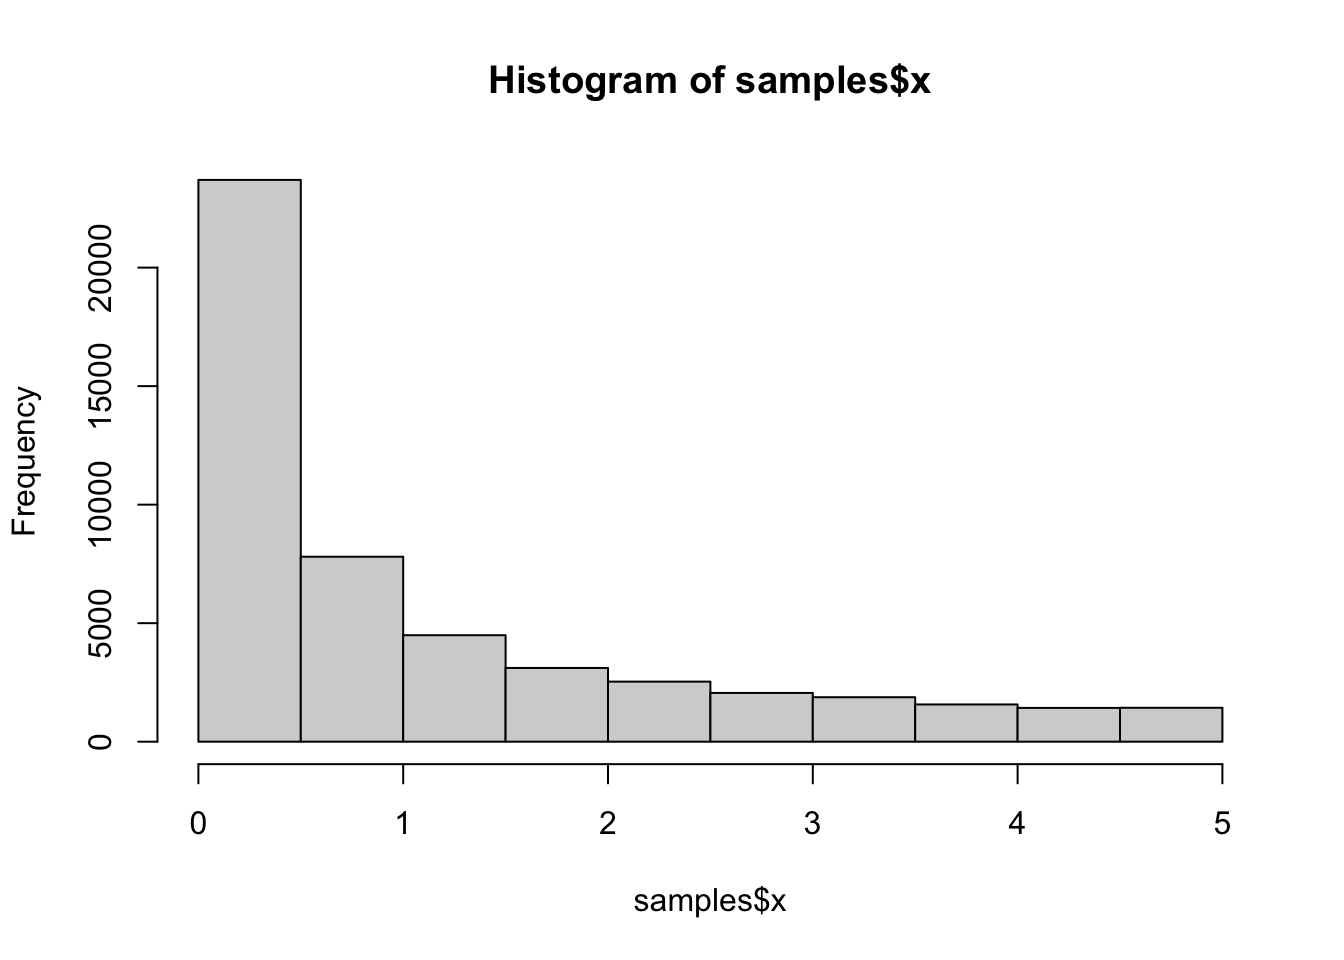
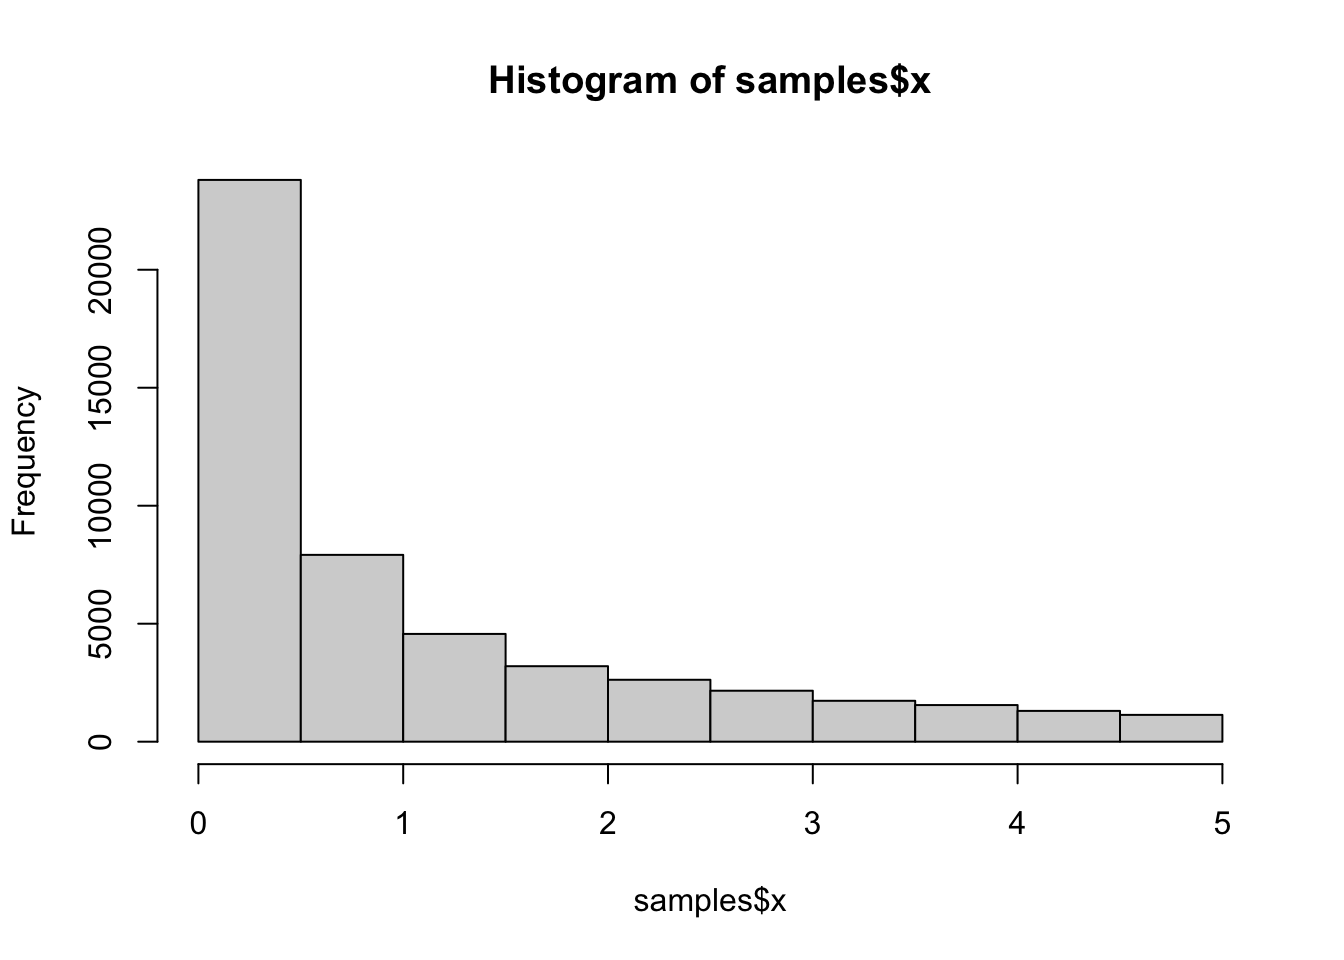
Built site for gh-pages

diff --git a/w08_mcmc1/topic02_stan_basics.html b/w08_mcmc1/topic02_stan_basics.html
@@ -796,7 +796,7 @@ https://github.com/trevorcampbell/shortex
 <span id="annotated-cell-3-3"><a href="#annotated-cell-3-3" aria-hidden="true" tabindex="-1"></a>}</span>
 <span id="annotated-cell-3-4"><a href="#annotated-cell-3-4" aria-hidden="true" tabindex="-1"></a></span>
 <a class="code-annotation-anchor" data-target-cell="annotated-cell-3" data-target-annotation="2" onclick="event.preventDefault();">2</a><span id="annotated-cell-3-5" class="code-annotation-target"><a href="#annotated-cell-3-5" aria-hidden="true" tabindex="-1"></a><span class="kw">parameters</span> {</span>
-<span id="annotated-cell-3-6"><a href="#annotated-cell-3-6" aria-hidden="true" tabindex="-1"></a>  <span class="dt">real</span> x;</span>
+<span id="annotated-cell-3-6"><a href="#annotated-cell-3-6" aria-hidden="true" tabindex="-1"></a>  <span class="dt">real</span>&lt;<span class="kw">lower</span>=<span class="dv">0</span>, <span class="kw">upper</span>=<span class="dv">5</span>&gt; x;</span>
 <span id="annotated-cell-3-7"><a href="#annotated-cell-3-7" aria-hidden="true" tabindex="-1"></a>}</span>
 <span id="annotated-cell-3-8"><a href="#annotated-cell-3-8" aria-hidden="true" tabindex="-1"></a></span>
 <span id="annotated-cell-3-9"><a href="#annotated-cell-3-9" aria-hidden="true" tabindex="-1"></a><span class="kw">model</span> {</span>
@@ -850,12 +850,9 @@ https://github.com/trevorcampbell/shortex
 <div class="cell-output cell-output-stdout">
 <pre><code>
 SAMPLING FOR MODEL 'anon_model' NOW (CHAIN 1).
-Chain 1: Rejecting initial value:
-Chain 1:   Error evaluating the log probability at the initial value.
-Chain 1: Exception: uniform_lpdf: Upper bound parameter is -1.58474, but must be greater than 0.000000 (in 'anon_model', line 9, column 2 to column 20)
 Chain 1: 
-Chain 1: Gradient evaluation took 3e-06 seconds
-Chain 1: 1000 transitions using 10 leapfrog steps per transition would take 0.03 seconds.
+Chain 1: Gradient evaluation took 4e-06 seconds
+Chain 1: 1000 transitions using 10 leapfrog steps per transition would take 0.04 seconds.
 Chain 1: Adjust your expectations accordingly!
 Chain 1: 
 Chain 1: 
@@ -872,9 +869,9 @@ Chain 1: Iteration: 80000 / 100000 [ 80%]  (Sampling)
 Chain 1: Iteration: 90000 / 100000 [ 90%]  (Sampling)
 Chain 1: Iteration: 100000 / 100000 [100%]  (Sampling)
 Chain 1: 
-Chain 1:  Elapsed Time: 10.363 seconds (Warm-up)
-Chain 1:                3.196 seconds (Sampling)
-Chain 1:                13.559 seconds (Total)
+Chain 1:  Elapsed Time: 0.253 seconds (Warm-up)
+Chain 1:                0.157 seconds (Sampling)
+Chain 1:                0.41 seconds (Total)
 Chain 1: </code></pre>
 </div>
 </div>
@@ -886,11 +883,11 @@ Chain 1: </code></pre>
 1 chains, each with iter=1e+05; warmup=50000; thin=1; 
 post-warmup draws per chain=50000, total post-warmup draws=50000.
 
-     mean se_mean   sd  2.5%   25%  50%  75% 97.5% n_eff Rhat
-x    1.15    0.03 1.30  0.07  0.18 0.56 1.72  4.56  1403    1
-lp__ 0.58    0.04 1.29 -1.52 -0.54 0.58 1.69  2.70  1092    1
+      mean se_mean   sd  2.5%   25%   50%   75% 97.5% n_eff Rhat
+x     1.12    0.01 1.25  0.07  0.19  0.55  1.68  4.45 10585    1
+lp__ -0.37    0.01 0.63 -2.21 -0.41 -0.12 -0.04 -0.01  9987    1
 
-Samples were drawn using NUTS(diag_e) at Mon Mar  4 21:07:38 2024.
+Samples were drawn using NUTS(diag_e) at Tue Mar  5 11:45:15 2024.
 For each parameter, n_eff is a crude measure of effective sample size,
 and Rhat is the potential scale reduction factor on split chains (at 
 convergence, Rhat=1).</code></pre>
@@ -924,7 +921,14 @@ convergence, Rhat=1).</code></pre>
 <span id="cb7-2"><a href="#cb7-2" aria-hidden="true" tabindex="-1"></a></span>
 <span id="cb7-3"><a href="#cb7-3" aria-hidden="true" tabindex="-1"></a><span class="fu">head</span>(samples<span class="sc">$</span>x)</span></code><button title="Copy to Clipboard" class="code-copy-button"><i class="bi"></i></button></pre></div>
 <div class="cell-output cell-output-stdout">
-<pre><code>[1] 1.1564924 2.1603994 0.1596580 0.1776573 4.1258671 1.0702292</code></pre>
+<pre><code>[1] 0.7224132 3.7228678 2.2768091 1.0077302 4.9788992 0.6378141</code></pre>
+</div>
+</div>
+<p>As a sanity check, let’s make sure all the samples are greater than the observed lower bound of <span class="math inline">\(0.06\)</span>:</p>
+<div class="cell">
+<div class="sourceCode cell-code" id="cb9"><pre class="sourceCode r code-with-copy"><code class="sourceCode r"><span id="cb9-1"><a href="#cb9-1" aria-hidden="true" tabindex="-1"></a><span class="fu">min</span>(samples<span class="sc">$</span>x)</span></code><button title="Copy to Clipboard" class="code-copy-button"><i class="bi"></i></button></pre></div>
+<div class="cell-output cell-output-stdout">
+<pre><code>[1] 0.06000474</code></pre>
 </div>
 </div>
 <p><strong>Question:</strong> denote the samples output from Stan by <span class="math inline">\(X^{(1)}, X^{(2)}, \dots, X^{(M)}\)</span>. What formula should you use to approximate <span class="math inline">\(\mathbb{E}[g(X) | Y = y]\)</span> based on the Stan output?</p>
@@ -970,26 +974,26 @@ Click for answer
 <h3 class="anchored" data-anchor-id="plotting-histograms">Plotting histograms</h3>
 <p>Since the samples are equally weighted, this makes it simpler to create plots, e.g., for a histogram:</p>
 <div class="cell">
-<div class="sourceCode cell-code" id="cb9"><pre class="sourceCode r code-with-copy"><code class="sourceCode r"><span id="cb9-1"><a href="#cb9-1" aria-hidden="true" tabindex="-1"></a><span class="fu">hist</span>(samples<span class="sc">$</span>x)</span></code><button title="Copy to Clipboard" class="code-copy-button"><i class="bi"></i></button></pre></div>
+<div class="sourceCode cell-code" id="cb11"><pre class="sourceCode r code-with-copy"><code class="sourceCode r"><span id="cb11-1"><a href="#cb11-1" aria-hidden="true" tabindex="-1"></a><span class="fu">hist</span>(samples<span class="sc">$</span>x)</span></code><button title="Copy to Clipboard" class="code-copy-button"><i class="bi"></i></button></pre></div>
 <div class="cell-output-display">
 <div>
 <figure class="figure">
-<p><img src="topic02_stan_basics_files/figure-html/unnamed-chunk-7-1.png" class="img-fluid figure-img" width="672"></p>
+<p><img src="topic02_stan_basics_files/figure-html/unnamed-chunk-8-1.png" class="img-fluid figure-img" width="672"></p>
 </figure>
 </div>
 </div>
 </div>
 <p>You can also use the <code>bayesplot</code> package which will be handy to create more complex plots from MCMC runs:</p>
 <div class="cell">
-<div class="sourceCode cell-code" id="cb10"><pre class="sourceCode r code-with-copy"><code class="sourceCode r"><span id="cb10-1"><a href="#cb10-1" aria-hidden="true" tabindex="-1"></a><span class="fu">suppressPackageStartupMessages</span>(<span class="fu">require</span>(bayesplot))</span>
-<span id="cb10-2"><a href="#cb10-2" aria-hidden="true" tabindex="-1"></a><span class="fu">mcmc_hist</span>(fit, <span class="at">pars =</span> <span class="fu">c</span>(<span class="st">"x"</span>))</span></code><button title="Copy to Clipboard" class="code-copy-button"><i class="bi"></i></button></pre></div>
+<div class="sourceCode cell-code" id="cb12"><pre class="sourceCode r code-with-copy"><code class="sourceCode r"><span id="cb12-1"><a href="#cb12-1" aria-hidden="true" tabindex="-1"></a><span class="fu">suppressPackageStartupMessages</span>(<span class="fu">require</span>(bayesplot))</span>
+<span id="cb12-2"><a href="#cb12-2" aria-hidden="true" tabindex="-1"></a><span class="fu">mcmc_hist</span>(fit, <span class="at">pars =</span> <span class="fu">c</span>(<span class="st">"x"</span>))</span></code><button title="Copy to Clipboard" class="code-copy-button"><i class="bi"></i></button></pre></div>
 <div class="cell-output cell-output-stderr">
 <pre><code>`stat_bin()` using `bins = 30`. Pick better value with `binwidth`.</code></pre>
 </div>
 <div class="cell-output-display">
 <div>
 <figure class="figure">
-<p><img src="topic02_stan_basics_files/figure-html/unnamed-chunk-8-1.png" class="img-fluid figure-img" width="672"></p>
+<p><img src="topic02_stan_basics_files/figure-html/unnamed-chunk-9-1.png" class="img-fluid figure-img" width="672"></p>
 </figure>
 </div>
 </div>
